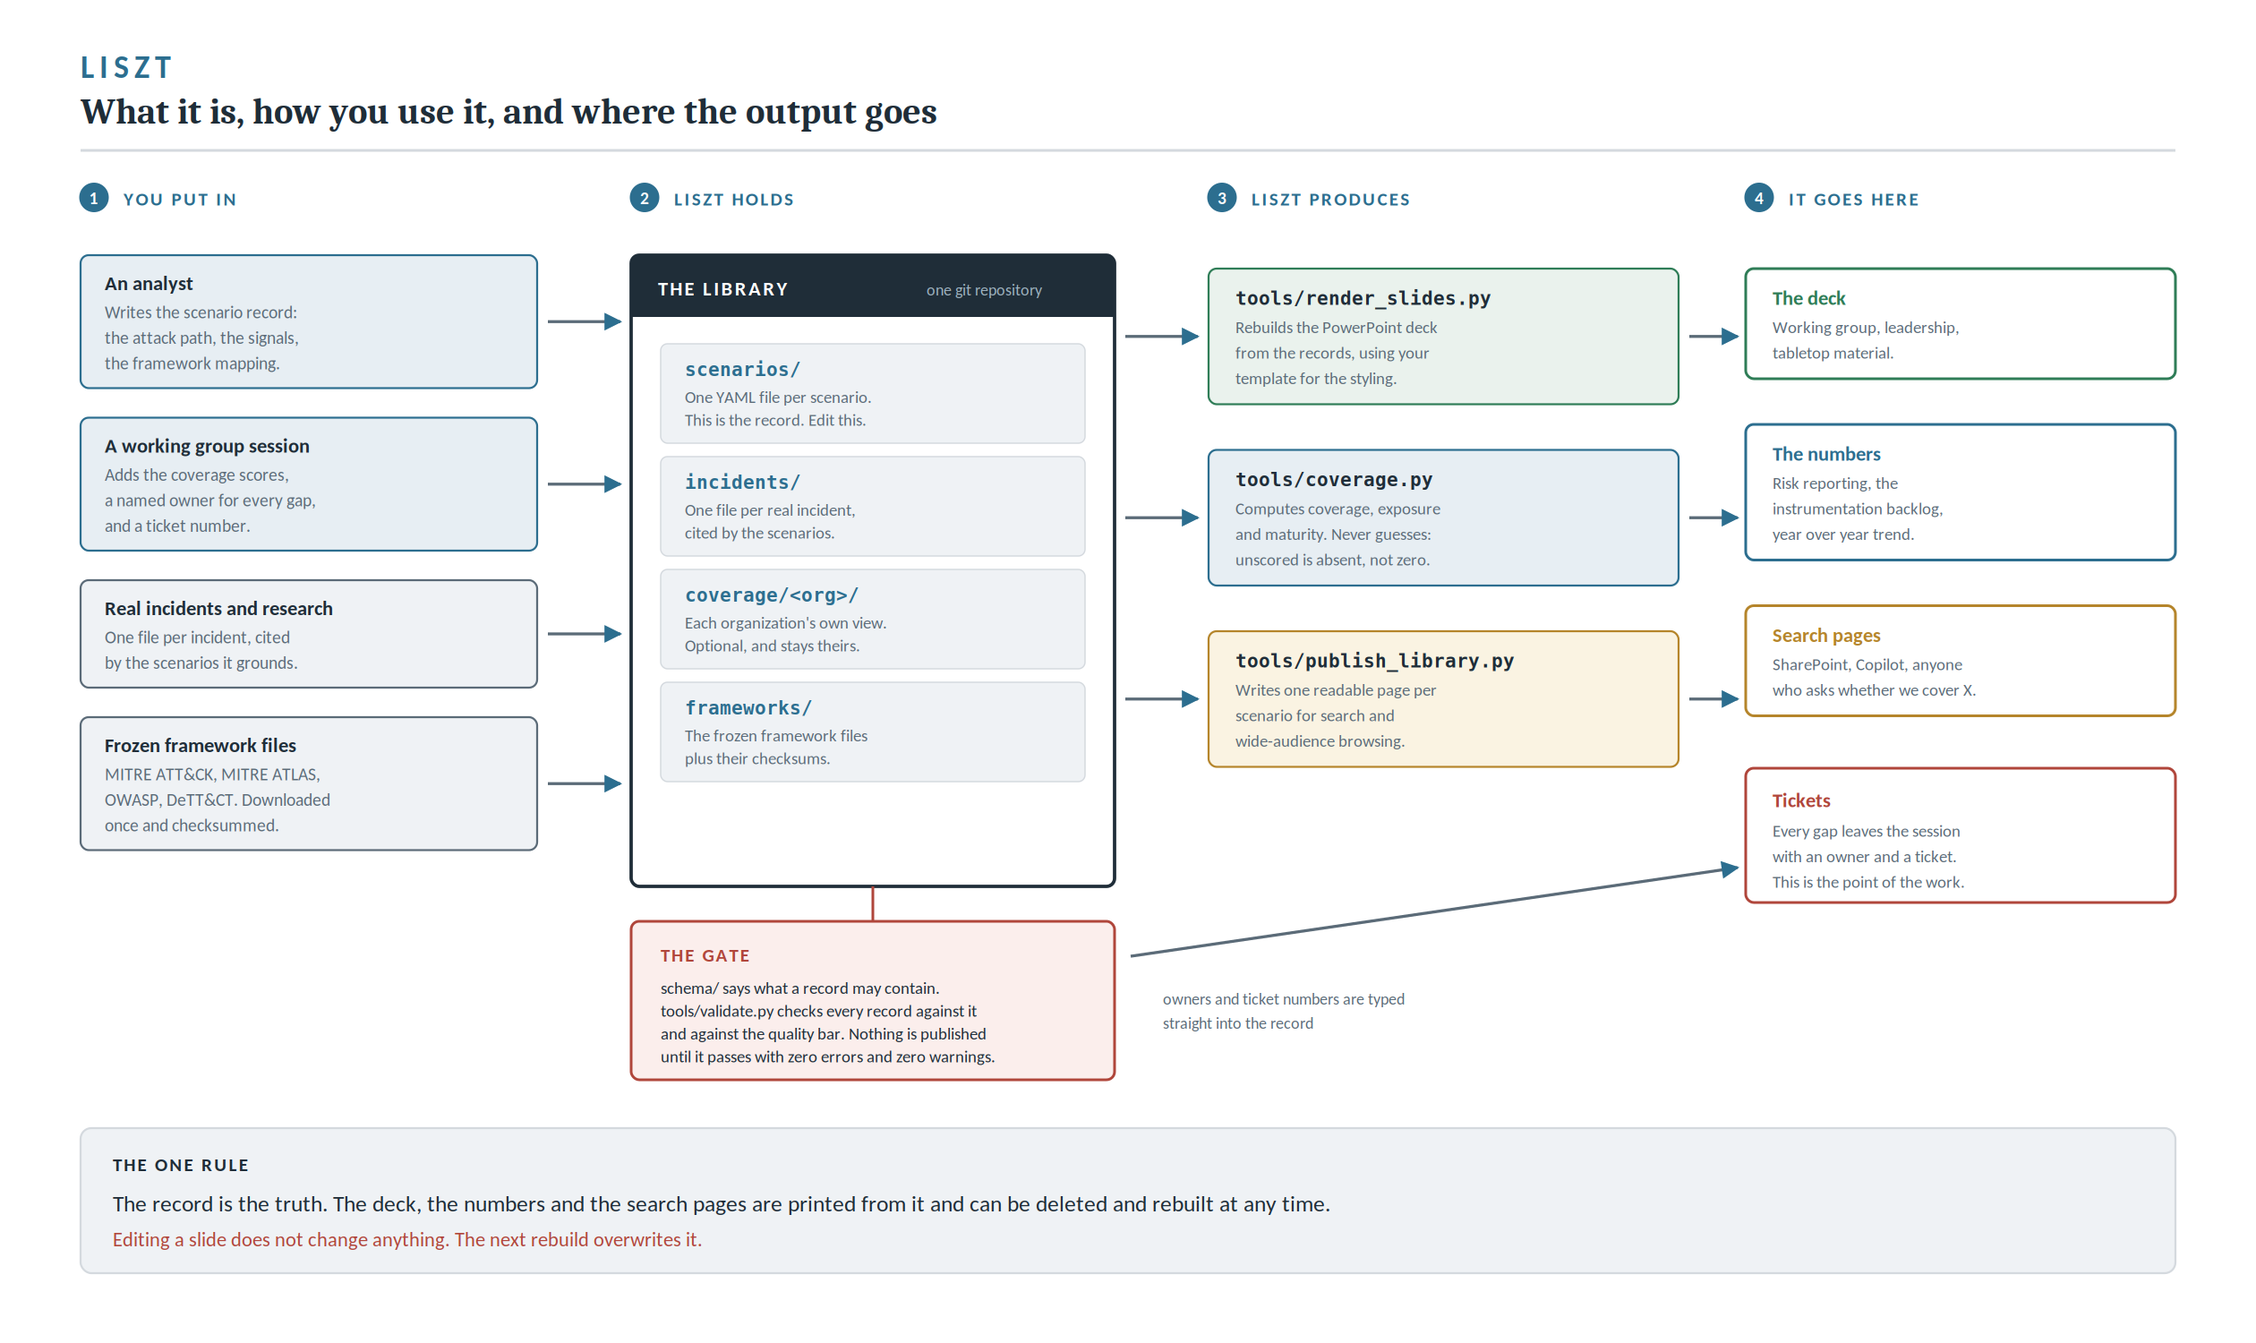
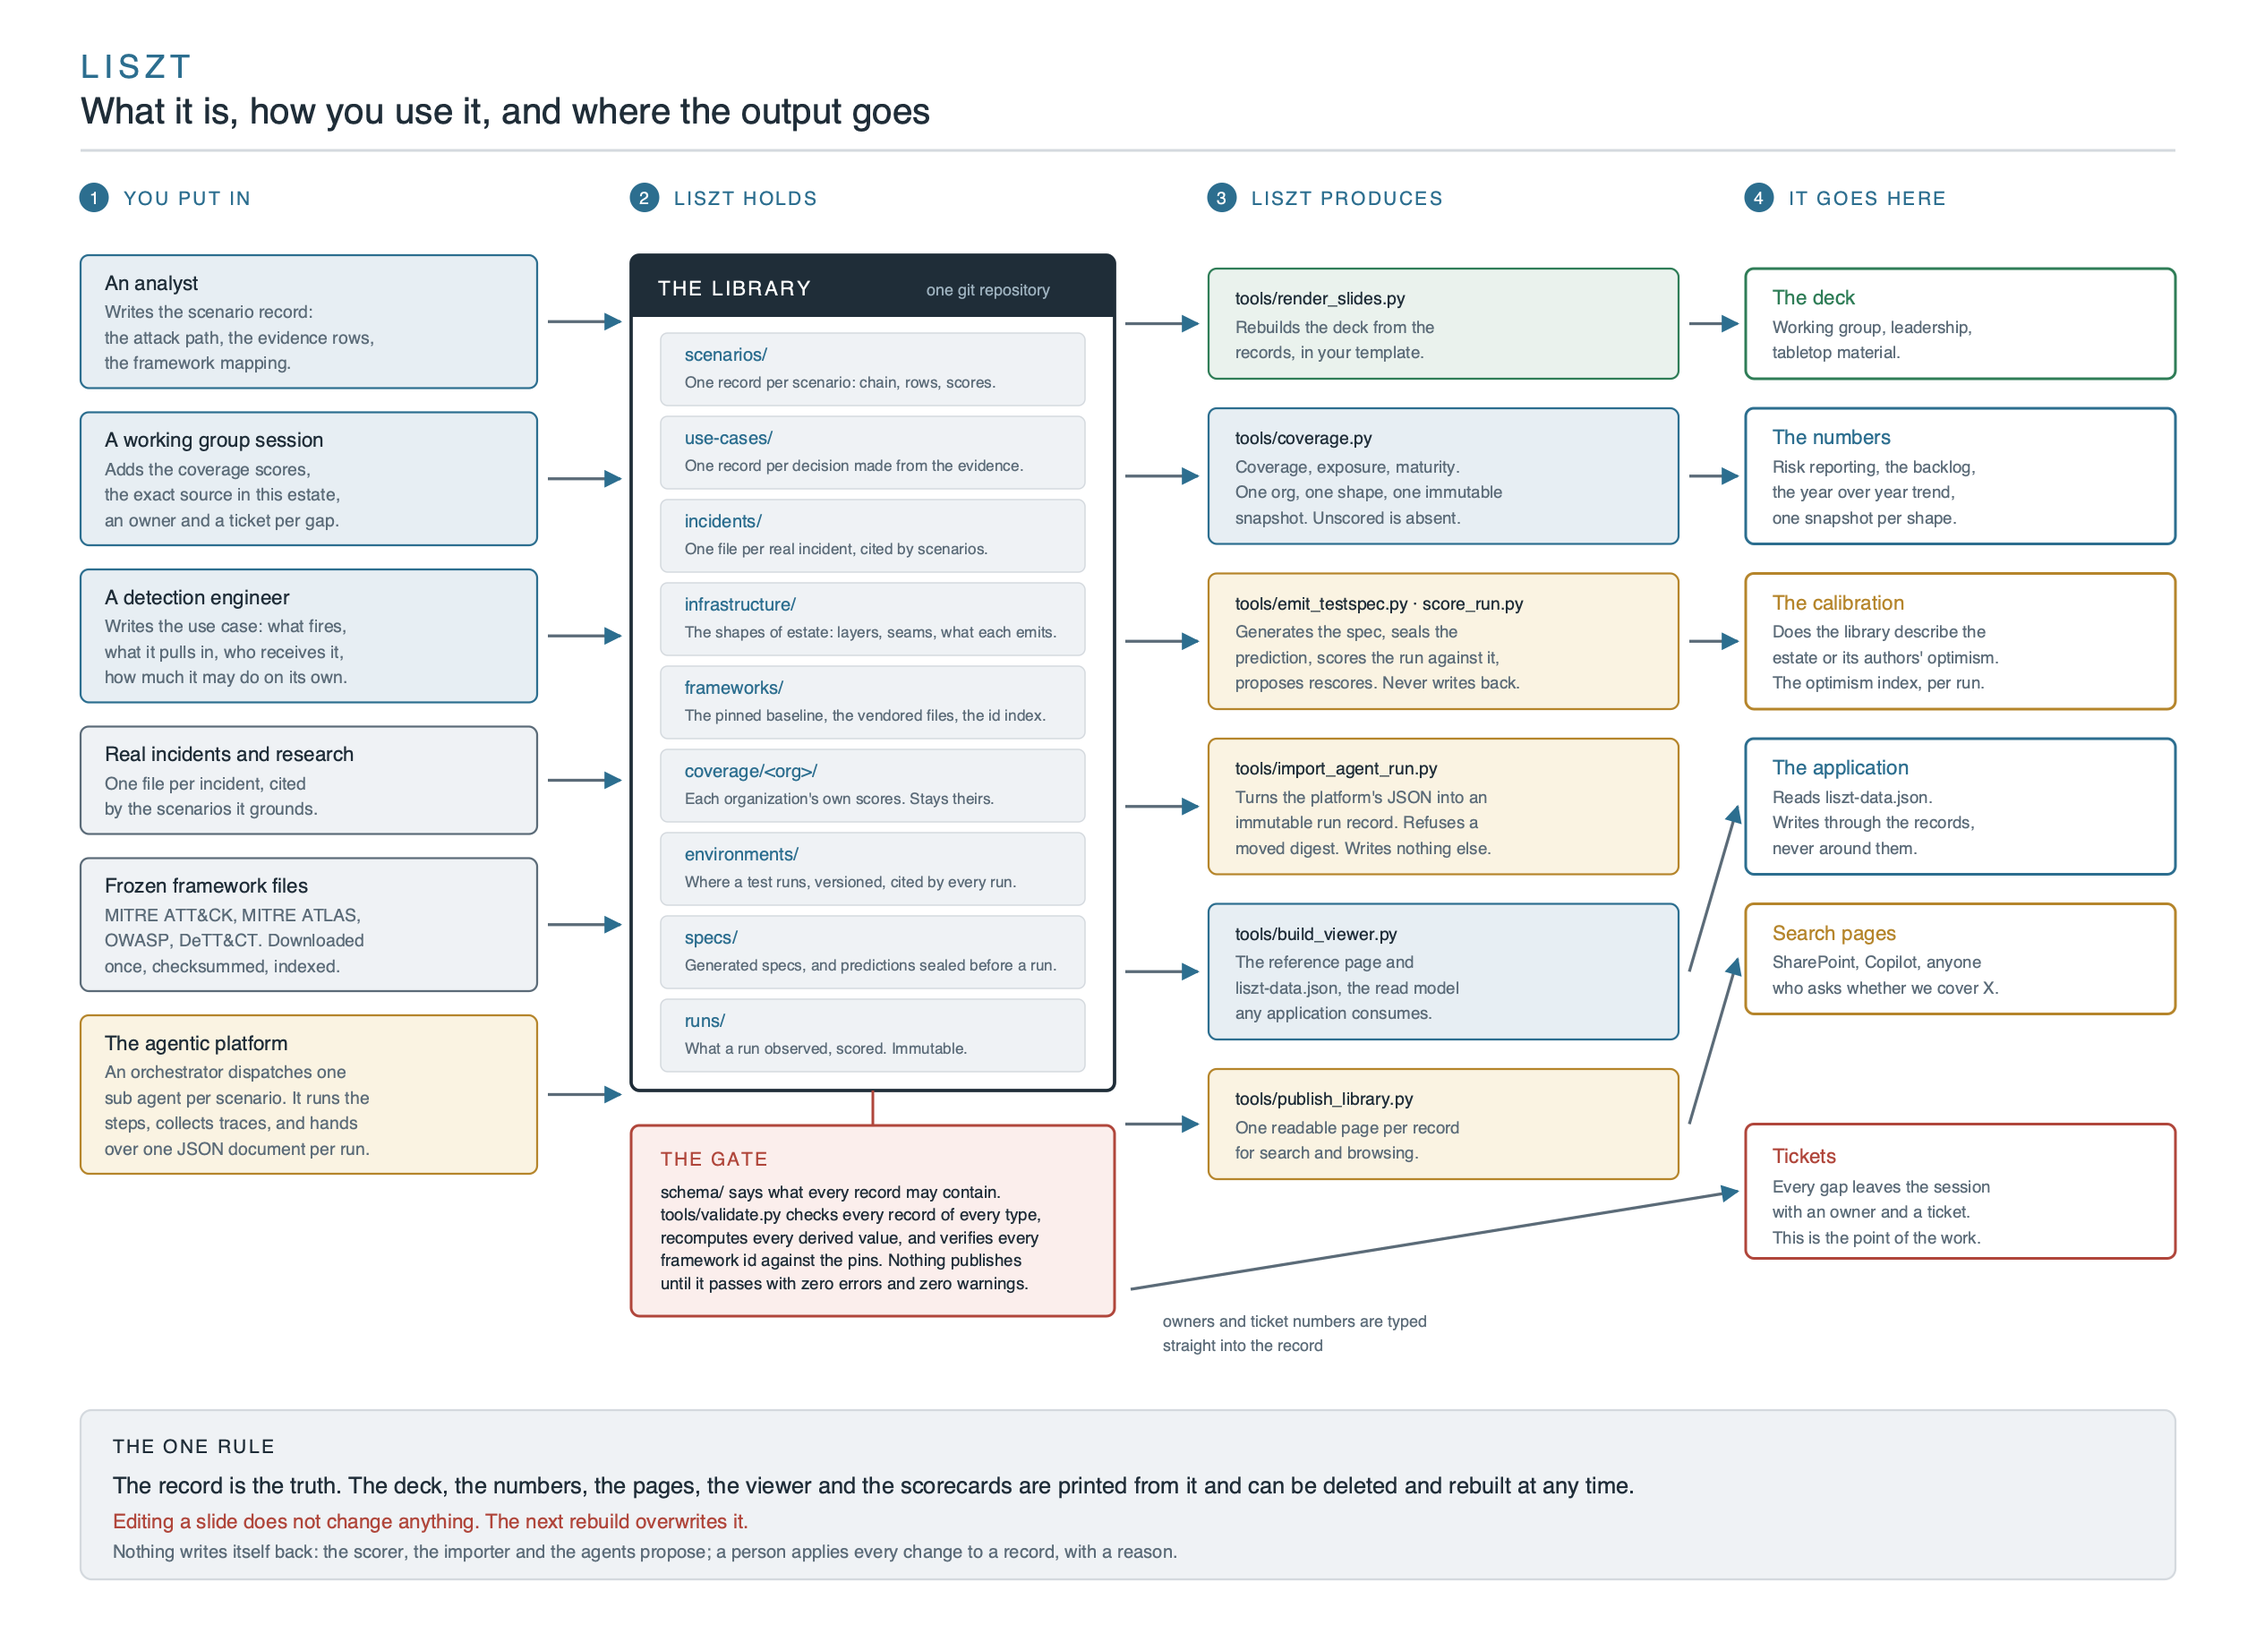
diagrams: the architecture shows every store and the platform input
The library holds nine record types, not four; the agentic platform is an input; the
tools column names the spec, scoring, import and viewer tools; and the destinations
include the calibration and the application.

diff --git a/docs/diagrams/make_diagrams.py b/docs/diagrams/make_diagrams.py
@@ -81,7 +81,7 @@ DEFS = f'''<defs>
 # ═════════════════════════════════════════════════════════════════════════════
 
 def architecture() -> str:
-    W, H = 1680, 1000
+    W, H = 1680, 1210
     s = [f'<svg xmlns="http://www.w3.org/2000/svg" width="{W}" height="{H}" '
          f'viewBox="0 0 {W} {H}"><rect width="{W}" height="{H}" fill="{WHITE}"/>',
          DEFS]
@@ -98,7 +98,6 @@ def architecture() -> str:
         (1300, "4", "IT GOES HERE"),
     ]
     for x, n, label in cols:
-        s.append(text(x, 152, n, 13, WHITE, "bold", anchor="middle"))
         s.append(f'<circle cx="{x+10}" cy="147" r="11" fill="{BLUE}"/>')
         s.append(text(x + 10, 152, n, 13, WHITE, "bold", anchor="middle"))
         s.append(text(x + 32, 153, label, 14, BLUE, "bold", spacing=1.6))
@@ -106,16 +105,22 @@ def architecture() -> str:
     # ── column 1: inputs ────────────────────────────────────────────────────
     inputs = [
         (PALEB, BLUE, "An analyst", [
-            "Writes the scenario record:", "the attack path, the signals,",
+            "Writes the scenario record:", "the attack path, the evidence rows,",
             "the framework mapping."]),
         (PALEB, BLUE, "A working group session", [
-            "Adds the coverage scores,", "a named owner for every gap,",
-            "and a ticket number."]),
+            "Adds the coverage scores,", "the exact source in this estate,",
+            "an owner and a ticket per gap."]),
+        (PALEB, BLUE, "A detection engineer", [
+            "Writes the use case: what fires,", "what it pulls in, who receives it,",
+            "how much it may do on its own."]),
         (PALE, GRAY, "Real incidents and research", [
             "One file per incident, cited", "by the scenarios it grounds."]),
         (PALE, GRAY, "Frozen framework files", [
             "MITRE ATT&CK, MITRE ATLAS,", "OWASP, DeTT&CT. Downloaded",
-            "once and checksummed."]),
+            "once, checksummed, indexed."]),
+        (PALEA, AMBER, "The agentic platform", [
+            "An orchestrator dispatches one", "sub agent per scenario. It runs the",
+            "steps, collects traces, and hands", "over one JSON document per run."]),
     ]
     y = 190
     for fill, stroke, title, body in inputs:
@@ -124,70 +129,89 @@ def architecture() -> str:
         s.append(text(78, y + 26, title, 15, INK, "bold"))
         s.append(lines(78, y + 47, body, 13, GRAY, 19))
         s.append(arrow(408, y + h / 2, 462, y + h / 2, GRAY))
-        y += h + 22
+        y += h + 18
 
     # ── column 2: the library ───────────────────────────────────────────────
-    s.append(box(470, 190, 360, 470, WHITE, INK, sw=2.5))
+    store = [
+        ("scenarios/", "One record per scenario: chain, rows, scores."),
+        ("use-cases/", "One record per decision made from the evidence."),
+        ("incidents/", "One file per real incident, cited by scenarios."),
+        ("infrastructure/", "The shapes of estate: layers, seams, what each emits."),
+        ("frameworks/", "The pinned baseline, the vendored files, the id index."),
+        ("coverage/<org>/", "Each organization's own scores. Stays theirs."),
+        ("environments/", "Where a test runs, versioned, cited by every run."),
+        ("specs/", "Generated specs, and predictions sealed before a run."),
+        ("runs/", "What a run observed, scored. Immutable."),
+    ]
+    lib_h = 46 + 12 + len(store) * 62 + 6
+    s.append(box(470, 190, 360, lib_h, WHITE, INK, sw=2.5))
     s.append(f'<rect x="470" y="190" width="360" height="46" rx="6" fill="{INK}"/>')
     s.append(f'<rect x="470" y="222" width="360" height="14" fill="{INK}"/>')
     s.append(text(490, 220, "THE LIBRARY", 15, WHITE, "bold", spacing=1.5))
     s.append(text(690, 220, "one git repository", 12, "#9FB3C0"))
-
-    store = [
-        ("scenarios/", "One YAML file per scenario.", "This is the record. Edit this."),
-        ("incidents/", "One file per real incident,", "cited by the scenarios."),
-        ("coverage/<org>/", "Each organization's own view.", "Optional, and stays theirs."),
-        ("frameworks/", "The frozen framework files", "plus their checksums."),
-    ]
-    y = 256
-    for name, l1, l2 in store:
-        s.append(box(492, y, 316, 74, PALE, RULE, rx=5, sw=1))
-        s.append(text(510, y + 24, name, 14, BLUE, "bold", font=MONO))
-        s.append(lines(510, y + 44, [l1, l2], 12.5, GRAY, 17))
-        y += 84
+    y = 248
+    for name, l1 in store:
+        s.append(box(492, y, 316, 54, PALE, RULE, rx=5, sw=1))
+        s.append(text(510, y + 21, name, 13.5, BLUE, "bold", font=MONO))
+        s.append(text(510, y + 41, l1, 11.5, GRAY))
+        y += 62
+    lib_bottom = 190 + lib_h
 
     # the gate
-    s.append(f'<line x1="650" y1="660" x2="650" y2="686" stroke="{RED}" stroke-width="2"/>')
-    s.append(box(470, 686, 360, 118, PALER, RED, sw=2))
-    s.append(text(492, 716, "THE GATE", 14, RED, "bold", spacing=1.4))
-    s.append(lines(492, 740, [
-        "schema/ says what a record may contain.",
-        "tools/validate.py checks every record against it",
-        "and against the quality bar. Nothing is published",
+    gate_y = lib_bottom + 26
+    s.append(f'<line x1="650" y1="{lib_bottom}" x2="650" y2="{gate_y}" stroke="{RED}" stroke-width="2"/>')
+    s.append(box(470, gate_y, 360, 142, PALER, RED, sw=2))
+    s.append(text(492, gate_y + 30, "THE GATE", 14, RED, "bold", spacing=1.4))
+    s.append(lines(492, gate_y + 54, [
+        "schema/ says what every record may contain.",
+        "tools/validate.py checks every record of every type,",
+        "recomputes every derived value, and verifies every",
+        "framework id against the pins. Nothing publishes",
         "until it passes with zero errors and zero warnings.",
     ], 12.5, INK, 17))
 
     # ── column 3: tools ─────────────────────────────────────────────────────
     tools = [
-        (GREEN, PALEG, "tools/render_slides.py", ["Rebuilds the PowerPoint deck",
-                                                  "from the records, using your",
-                                                  "template for the styling."]),
-        (BLUE, PALEB, "tools/coverage.py", ["Computes coverage, exposure",
-                                            "and maturity. Never guesses:",
-                                            "unscored is absent, not zero."]),
-        (AMBER, PALEA, "tools/publish_library.py", ["Writes one readable page per",
-                                                    "scenario for search and",
-                                                    "wide-audience browsing."]),
+        (GREEN, PALEG, "tools/render_slides.py", ["Rebuilds the deck from the",
+                                                  "records, in your template."]),
+        (BLUE, PALEB, "tools/coverage.py", ["Coverage, exposure, maturity.",
+                                            "One org, one shape, one immutable",
+                                            "snapshot. Unscored is absent."]),
+        (AMBER, PALEA, "tools/emit_testspec.py · score_run.py", [
+            "Generates the spec, seals the",
+            "prediction, scores the run against it,",
+            "proposes rescores. Never writes back."]),
+        (AMBER, PALEA, "tools/import_agent_run.py", ["Turns the platform's JSON into an",
+                                                     "immutable run record. Refuses a",
+                                                     "moved digest. Writes nothing else."]),
+        (BLUE, PALEB, "tools/build_viewer.py", ["The reference page and",
+                                                "liszt-data.json, the read model",
+                                                "any application consumes."]),
+        (AMBER, PALEA, "tools/publish_library.py", ["One readable page per record",
+                                                    "for search and browsing."]),
     ]
     y = 200
+    tool_mid = {}
     for stroke, fill, name, body in tools:
         h = 44 + len(body) * 19
         s.append(arrow(838, y + h / 2, 892, y + h / 2, GRAY))
         s.append(box(900, y, 350, h, fill, stroke))
-        s.append(text(920, y + 27, name, 14, INK, "bold", font=MONO))
+        s.append(text(920, y + 27, name, 13, INK, "bold", font=MONO))
         s.append(lines(920, y + 48, body, 12.5, GRAY, 19))
-        s.append(arrow(1258, y + h / 2, 1294, y + h / 2, GRAY))
-        y += h + 34
+        tool_mid[name] = y + h / 2
+        y += h + 22
+    tools_bottom = y
 
     # ── column 4: destinations ──────────────────────────────────────────────
     dests = [
-        (GREEN, "The deck", ["Working group, leadership,",
-                             "tabletop material."]),
-        (BLUE, "The numbers", ["Risk reporting, the",
-                               "instrumentation backlog,",
-                               "year over year trend."]),
-        (AMBER, "Search pages", ["SharePoint, Copilot, anyone",
-                                 "who asks whether we cover X."]),
+        (GREEN, "The deck", ["Working group, leadership,", "tabletop material."]),
+        (BLUE, "The numbers", ["Risk reporting, the backlog,", "the year over year trend,",
+                               "one snapshot per shape."]),
+        (AMBER, "The calibration", ["Does the library describe the", "estate or its authors' optimism.",
+                                    "The optimism index, per run."]),
+        (BLUE, "The application", ["Reads liszt-data.json.", "Writes through the records,",
+                                   "never around them."]),
+        (AMBER, "Search pages", ["SharePoint, Copilot, anyone", "who asks whether we cover X."]),
     ]
     y = 200
     for color, title, body in dests:
@@ -195,26 +219,44 @@ def architecture() -> str:
         s.append(box(1300, y, 320, h, WHITE, color, sw=2))
         s.append(text(1320, y + 27, title, 15, color, "bold"))
         s.append(lines(1320, y + 48, body, 12.5, GRAY, 19))
-        y += h + 34
+        y += h + 22
+    # tool to destination arrows, matched by order
+    for i, (name, _) in enumerate(zip([t[2] for t in tools], dests)):
+        pass
+    d_y = 200
+    d_mids = []
+    for color, title, body in dests:
+        h = 44 + len(body) * 19
+        d_mids.append(d_y + h / 2)
+        d_y += h + 22
+    pairs = [("tools/render_slides.py", 0), ("tools/coverage.py", 1),
+             ("tools/emit_testspec.py · score_run.py", 2), ("tools/build_viewer.py", 3),
+             ("tools/publish_library.py", 4)]
+    for name, di in pairs:
+        s.append(arrow(1258, tool_mid[name], 1294, d_mids[di], GRAY))
 
     # tickets: the output that actually closes a gap
-    s.append(box(1300, 572, 320, 100, WHITE, RED, sw=2))
-    s.append(text(1320, 601, "Tickets", 15, RED, "bold"))
-    s.append(lines(1320, 623, [
+    t_y = d_y + 60
+    s.append(box(1300, t_y, 320, 100, WHITE, RED, sw=2))
+    s.append(text(1320, t_y + 29, "Tickets", 15, RED, "bold"))
+    s.append(lines(1320, t_y + 51, [
         "Every gap leaves the session", "with an owner and a ticket.",
         "This is the point of the work."], 12.5, GRAY, 19))
-    s.append(arrow(842, 712, 1294, 646, GRAY))
-    s.append(text(866, 748, "owners and ticket numbers are typed", 12, GRAY))
-    s.append(text(866, 766, "straight into the record", 12, GRAY))
+    s.append(arrow(842, gate_y + 122, 1294, t_y + 50, GRAY))
+    s.append(text(866, gate_y + 150, "owners and ticket numbers are typed", 12, GRAY))
+    s.append(text(866, gate_y + 168, "straight into the record", 12, GRAY))
 
     # ── footer band ─────────────────────────────────────────────────────────
-    s.append(box(60, 840, 1560, 108, PALE, RULE, rx=8))
-    s.append(text(84, 872, "THE ONE RULE", 14, INK, "bold", spacing=1.5))
-    s.append(text(84, 902, "The record is the truth. The deck, the numbers and the search pages "
-                           "are printed from it and can be deleted and rebuilt at any time.",
+    f_y = H - 160
+    s.append(box(60, f_y, 1560, 126, PALE, RULE, rx=8))
+    s.append(text(84, f_y + 32, "THE ONE RULE", 14, INK, "bold", spacing=1.5))
+    s.append(text(84, f_y + 62, "The record is the truth. The deck, the numbers, the pages, the viewer and the "
+                                "scorecards are printed from it and can be deleted and rebuilt at any time.",
                   17, INK))
-    s.append(text(84, 928, "Editing a slide does not change anything. The next rebuild "
-                           "overwrites it.", 15, RED))
+    s.append(text(84, f_y + 88, "Editing a slide does not change anything. The next rebuild overwrites it.",
+                  15, RED))
+    s.append(text(84, f_y + 110, "Nothing writes itself back: the scorer, the importer and the agents propose; "
+                                 "a person applies every change to a record, with a reason.", 13.5, GRAY))
 
     s.append("</svg>")
     return "".join(s)
